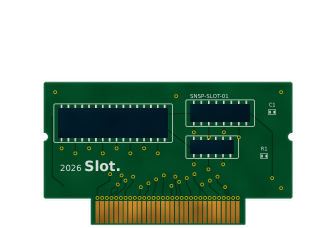
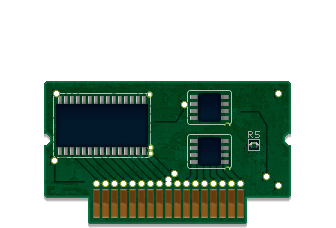
NES and SNES boards built from the GBA and Game Boy boards' own pixels
The GBA board's green, edge rim and drop shadow, its gold fingers and vias are copied over, the
chips are the Game Boy board's turned on their side, and the drill holes stay see-through. One
SNES board, the same size, now serves the NTSC and the PAL cart.

Claude-Session: https://claude.ai/code/session_01QKd2aZnZgZkwj4Ae6LDswU

Changed region(s): [[0.119, 0.3377, 0.8929, 1.0]]

diff --git a/tools/carts/tv_boards.py b/tools/carts/tv_boards.py
@@ -1,188 +1,161 @@
-"""Redraw the NES and SNES boards in the Game Boy / GBA boards' style (gb_board.png, board.png):
-mottled solder mask with a lighter rim, dark traces, gold-ringed vias, a via above every gold
-finger, black-blue chips on silver gull-wing pins inside a white silkscreen box, a few small parts
-and the big '2026 Slot.' mark. The outlines are the boards' current ones (the assets' alpha), so
-they still fit their shells. Usage: tv_boards.py FONT_REGULAR FONT_BOLD (run from the repo root)."""
-import sys, numpy as np
-from PIL import Image, ImageDraw, ImageFont
+"""Build the NES and SNES boards out of the GBA and Game Boy boards (board.png, gb_board.png), so
+they are the same make: the GBA board's mottled green is copied straight over (its own features
+patched out), its edge (a lighter cut rim) and drop shadow are copied by profile, its gold fingers
+and the via over each one are copied cell by cell, and the chips are the Game Boy board's own,
+turned on their side. Only the traces are drawn. One SNES board serves the NTSC and the PAL cart
+(as the real carts share one), at the same size in both.
+Usage: tv_boards.py (from the repo root). The NES outline is read from tools/carts/nes_board_mask.png."""
+import numpy as np
+from PIL import Image, ImageDraw
 from scipy import ndimage as nd
 
-REG, BOLD = sys.argv[1], sys.argv[2]
-S = 4  # drawn at 4x, boxed down
-GREEN = np.array([1, 72, 36.])
-POUR = np.array([0, 52, 24.])
-TRACE = np.array([0, 42, 18.])
-RIM = np.array([20, 104, 62.])
-RING = np.array([176, 166, 18.])
-HOLE = np.array([6, 30, 16.])
-NAVY = np.array([1, 24, 36.])
-PIN, PIN_DARK = np.array([214, 214, 214.]), np.array([150, 150, 152.])
-SILK = np.array([214, 220, 214.])
-GOLD, GOLD_DARK = np.array([196, 128, 40.]), np.array([150, 92, 30.])
+gba = np.asarray(Image.open('assets/board.png').convert('RGBA')).astype(np.float32)
+gb = np.asarray(Image.open('assets/gb_board.png').convert('RGBA')).astype(np.float32)
+R, G, B = gba[..., 0], gba[..., 1], gba[..., 2]
+opaque = gba[..., 3] > 250
+inner = nd.distance_transform_edt(opaque)
+TRACE = np.array([0, 30, 18.])
 
-def board(name, layout):
-    src = Image.open(f'assets/{name}.png').convert('RGBA')
-    W, H = src.size
-    w, h = W * S, H * S
-    alpha = np.asarray(src)[..., 3]
-    m = np.asarray(Image.fromarray(alpha).resize((w, h), Image.Resampling.BILINEAR)) > 127
-    rng = np.random.default_rng(len(name))
-    yy, xx = np.mgrid[0:h, 0:w]
+# ---- the GBA board's green, with its parts patched out of it ----
+clean = opaque & (inner > 6) & (G > R + 30) & (G > B + 15) & (G > 52) & (G < 125)
+clean = nd.binary_erosion(clean, iterations=1)
+tex, ok = gba[..., :3].copy(), clean.copy()
+rng = np.random.default_rng(3)
+for _ in range(400):
+    if ok[16:150, 24:334].all():
+        break
+    dy, dx = rng.integers(-60, 61, 2)
+    src, sok = np.roll(tex, (dy, dx), (0, 1)), np.roll(ok, (dy, dx), (0, 1))
+    fill = ~ok & sok
+    tex[fill] = src[fill]
+    ok |= fill
+TILE = tex[16:150, 24:334]
 
-    def layer():
-        im = Image.new('L', (w, h), 0)
-        return im, ImageDraw.Draw(im)
-    def on(im): return np.asarray(im) > 127
+def green(h, w):
+    t = np.concatenate([TILE, TILE[:, ::-1]], 1)
+    t = np.concatenate([t, t[::-1]], 0)
+    reps = (h // t.shape[0] + 1, w // t.shape[1] + 1)
+    return np.tile(t, (*reps, 1))[:h, :w].copy()
 
-    # mottled mask: soft blotches and a few dark specks, as the GBA board has
-    blot = nd.gaussian_filter(rng.normal(0, 1, (h, w)), 6 * S)
-    blot /= blot.std()
-    rgb = GREEN[None, None, :] * (1 + 0.035 * blot[..., None])
-    speck = nd.gaussian_filter(rng.normal(0, 1, (h, w)), 0.6 * S)
-    rgb *= 1 - 0.18 * np.clip(speck / speck.std() - 2.2, 0, 1)[..., None]
+# the cut edge, by distance from it (measured down the GBA board's left side)
+RIM = {1: np.array([17, 108, 66.]), 2: np.array([9, 96, 56.]), 3: np.array([1, 77, 39.])}
+FLAT = np.array([1, 68, 32.])
+# the drop shadow below (rows 1..4 under the edge) and the faint one on the right
+SHADOW_DOWN, SHADOW_RIGHT = (84, 84, 63, 21), 20
 
-    L = layout
-    # copper pours under the mask
-    pim, pd = layer()
-    for box in L.get('pours', []):
-        pd.rounded_rectangle([c * S for c in box], radius=3 * S, fill=255)
-    rgb[on(pim)] = rgb[on(pim)] * 0.25 + POUR * 0.75
+def feature(px):
+    """The non-green pixels of a copied part: gold, silver, silkscreen, chip, drill."""
+    r, g, b = px[..., 0], px[..., 1], px[..., 2]
+    return (px[..., 3] > 128) & ~((g > r + 25) & (g > b + 8) & (r < 40))
 
-    # traces: from each finger's via straight up, then a 45 degree jog towards the chips
-    tim, td = layer()
-    fx0, fx1, fy0, fy1 = L['fingers']
-    n = L['count']
-    pitch = (fx1 - fx0) / n
-    vias = []
+# ---- parts to copy ----
+st = 55  # a middle finger of the GBA board: gold from x 55, 7 wide, pitch 9
+FINGER = gba[156:201, st - 1:st + 8]          # the via over it, the finger, the green under it
+FINGER_BOTTOM = 200 - 156                       # the cell's last board row
+VIA = gba[146:155, 300:309]                     # a lone via, drill and ring
+CHIP_BIG = np.rot90(gb[168:270, 66:134])        # the Game Boy board's 32-pin chip, on its side
+CHIP_SMALL = np.rot90(gb[45:92, 113:150])       # its 8-pin chip
+PART = gba[63:93, 186:206]                      # R5: a two-pad part and its name
+
+def paste(rgb, part, x, y, holes=None):
+    """Copy a part's own pixels over the green; its drill holes (see-through on the source
+    boards) are marked in `holes` so they stay see-through here too."""
+    h, w = part.shape[:2]
+    f = feature(part)
+    region = rgb[y:y + h, x:x + w]
+    region[f] = part[..., :3][f]
+    if holes is not None:
+        solid = part[..., 3] > 128
+        holes[y:y + h, x:x + w] |= nd.binary_fill_holes(solid) & ~solid
+
+def build(mask, fingers, chips, parts, vias, traces):
+    """mask: the board's outline (bool, full canvas). fingers: (x0, count, bottom row)."""
+    h, w = mask.shape
+    rgb = green(h, w)
+    d = nd.distance_transform_edt(np.pad(mask, 1))[1:-1, 1:-1]
+    for k, c in RIM.items():
+        band = mask & (np.abs(d - k) < 0.5)
+        rgb[band] = c + (rgb[band] - FLAT) * 0.5
+    # traces, drawn at 4x for soft edges, in the GBA board's trace green
+    S = 4
+    im = Image.new('L', (w * S, h * S), 0); dr = ImageDraw.Draw(im)
+    for path in traces:
+        dr.line([(x * S + S / 2, y * S + S / 2) for x, y in path], fill=255, width=int(1.6 * S), joint='curve')
+    cov = np.asarray(im.resize((w, h), Image.Resampling.BOX)).astype(np.float32)[..., None] / 255 * mask[..., None]
+    rgb = rgb * (1 - cov) + TRACE * cov
+    holes = np.zeros_like(mask)
+    for part, x, y in chips + parts:
+        paste(rgb, part, x, y, holes)
+    for x, y in vias:
+        paste(rgb, VIA, x - 4, y - 4, holes)
+    x0, n, bottom = fingers
     for k in range(n):
-        x = fx0 + (k + 0.5) * pitch
-        vy = fy0 - 3.2
-        vias.append((x, vy))
-        if k % 2 == 0 or k % 7 == 3:
-            top = L['fan_top'] + (k * 37 % 11) * 1.3
-            jog = (x - (fx0 + fx1) / 2) * -0.18
-            td.line([(x * S, vy * S), (x * S, (top + 8) * S), ((x + jog) * S, top * S),
-                     ((x + jog) * S, (top - 6) * S)], fill=255, width=int(1.1 * S))
-            vias.append((x + jog, top - 6))
-    for path in L.get('traces', []):
-        td.line([(px * S, py * S) for px, py in path], fill=255, width=int(1.1 * S), joint='curve')
-    rgb[on(tim)] = TRACE
+        paste(rgb, FINGER, x0 + k * 9, bottom - FINGER_BOTTOM, holes)
+    alpha = mask * 255.0
+    def shift(m, dy, dx):
+        out = np.zeros_like(m)
+        out[dy:, dx:] = m[:m.shape[0] - dy, :m.shape[1] - dx]
+        return out
+    for k, a in enumerate(SHADOW_DOWN, 1):
+        sh = shift(mask, k, 0) & ~mask
+        alpha = np.where(sh & (alpha < a), a, alpha)
+    sh = shift(mask, 0, 1) & ~mask
+    alpha = np.where(sh & (alpha < SHADOW_RIGHT), SHADOW_RIGHT, alpha)
+    alpha[holes & mask] = 0
+    rgb = np.where(mask[..., None], rgb, 0)
+    out = np.dstack([np.clip(rgb, 0, 255), alpha]).round().astype(np.uint8)
+    return out
 
-    # gold fingers, lighter at the top where the plating is fresh
-    gim, gd = layer()
+def rr(h, w, box, r):
+    m = Image.new('L', (w, h), 0)
+    ImageDraw.Draw(m).rounded_rectangle(box, radius=r, fill=255)
+    return np.asarray(m) > 127
+
+# ---- SNES: one board, 247 wide, for both carts ----
+BW, BH = 247, 147  # the last 4 rows hold the drop shadow
+FOOT = BH - 5       # the board's last row
+def snes_board():
+    m = rr(BH, BW, (0, 0, BW - 1, 116), 3)
+    m |= rr(BH, BW, (44, 100, 202, FOOT), 2)
+    for cx in (0, BW - 1):  # the half-round notches the shell's posts sit in
+        m &= ~rr(BH, BW, (cx - 5, 53, cx + 5, 63), 5)
+    x0, n = 48, 17
+    traces = []
     for k in range(n):
-        x = fx0 + k * pitch
-        gd.rectangle([(x + 0.12 * pitch) * S, fy0 * S, (x + 0.88 * pitch) * S, fy1 * S], fill=255)
-    g = on(gim)
-    t = np.clip((yy - fy0 * S) / max((fy1 - fy0) * S, 1), 0, 1)
-    gold = GOLD[None, None, :] * (1 - 0.25 * t[..., None]) * (1 + 0.06 * blot[..., None])
-    rgb[g] = gold[g]
+        x = x0 + k * 9 + 4
+        # into the big chip's pins on the left, the small chips' on the right, at 45 degrees
+        tx = 14 + k * 9.2 if k < 10 else 146 + (k - 10) * 6.5
+        up = abs(tx - x)
+        traces.append([(x, FOOT - 46), (x, 98), (tx, 98 - up), (tx, 70)])
+    traces += [[(110, 40), (132, 40), (140, 26)], [(196, 30), (214, 30), (222, 44), (222, 92)],
+               [(10, 82), (10, 100), (40, 100)]]
+    vias = [(140, 23), (222, 95), (10, 79), (234, 12), (12, 12), (234, 104), (130, 92), (124, 98)]
+    chips = [(CHIP_BIG, 8, 10), (CHIP_SMALL, 142, 8), (CHIP_SMALL, 142, 52)]
+    parts = [(PART, 200, 44)]
+    return build(m, (x0, n, FOOT), chips, parts, vias, traces)
 
-    # chips: their pins' traces first, so the pins sit on top
-    t2im, td2 = layer()
-    pin_vias = []
-    for (x0, y0, x1, y1, pins, side) in L['chips']:
-        if side == 'tb':
-            for k in range(0, pins, 2):
-                u = x0 + (k + 0.5) / pins * (x1 - x0)
-                run = 6 + (k * 5 % 4) * 2.5
-                td2.line([(u * S, (y1 + 3) * S), (u * S, (y1 + 3 + run) * S)], fill=255, width=int(1.1 * S))
-                pin_vias.append((u, y1 + 3 + run + 1.2))
-    rgb[on(t2im)] = TRACE
-    # chips: body, gull-wing pins top and bottom (or left and right), silkscreen box, pin-1 dot
-    for (x0, y0, x1, y1, pins, side) in L['chips']:
-        sim, sd = layer()
-        pad = 4.4
-        sd.rounded_rectangle([(x0 - pad) * S, (y0 - pad) * S, (x1 + pad) * S, (y1 + pad) * S],
-                             radius=1.5 * S, outline=255, width=int(0.8 * S))
-        rgb[on(sim)] = SILK
-        for k in range(pins):
-            if side == 'tb':
-                u = x0 + (k + 0.5) / pins * (x1 - x0)
-                for a, b in ((y0 - 3.4, y0), (y1, y1 + 3.4)):
-                    rgb[(np.abs(xx - u * S) < 0.9 * S) & (yy >= a * S) & (yy < b * S)] = PIN
-                    rgb[(np.abs(xx - u * S - 0.7 * S) < 0.25 * S) & (yy >= a * S) & (yy < b * S)] = PIN_DARK
-            else:
-                v = y0 + (k + 0.5) / pins * (y1 - y0)
-                for a, b in ((x0 - 3.4, x0), (x1, x1 + 3.4)):
-                    rgb[(np.abs(yy - v * S) < 0.9 * S) & (xx >= a * S) & (xx < b * S)] = PIN
-                    rgb[(np.abs(yy - v * S - 0.7 * S) < 0.25 * S) & (xx >= a * S) & (xx < b * S)] = PIN_DARK
-        body = (xx >= x0 * S) & (xx < x1 * S) & (yy >= y0 * S) & (yy < y1 * S)
-        sheen = 1 + 0.35 * np.clip(1 - (yy - y0 * S) / ((y1 - y0) * S), 0, 1) * np.clip(1 - (xx - x0 * S) / ((x1 - x0) * S), 0, 1)
-        rgb[body] = (NAVY[None, :] * sheen[body][:, None]) * (1 + 0.05 * blot[body][:, None])
-        dot = (xx - (x0 + 2.2) * S) ** 2 + (yy - (y1 - 2.2) * S) ** 2 < (0.9 * S) ** 2
-        rgb[dot] = NAVY * 0.55
+board = snes_board()
+for name, (W, H) in (('snes_board', (360, 231)), ('snes_pal_board', (336, 228))):
+    c = np.zeros((H, W, 4), np.uint8)
+    x, y = (W - BW) // 2, H - BH
+    c[y:y + BH, x:x + BW] = board
+    Image.fromarray(c, 'RGBA').save(f'assets/{name}.png', optimize=True)
 
-    # small parts: a two-pad part with a silver end each side and its name above
-    fim, fd = layer()
-    f_small = ImageFont.truetype(REG, int(5.2 * S))
-    for (x, y, label) in L.get('parts', []):
-        fd.rectangle([(x - 3.6) * S, (y - 2.6) * S, (x + 3.6) * S, (y + 2.6) * S], outline=255, width=int(0.6 * S))
-        fd.text((x * S, (y - 4.2) * S), label, font=f_small, fill=255, anchor='md')
-        rgb[(np.abs(xx - x * S) < 2.6 * S) & (np.abs(yy - y * S) < 1.3 * S)] = [10, 70, 40]
-        for e in (-1, 1):
-            rgb[(np.abs(xx - (x + e * 2.2) * S) < 0.7 * S) & (np.abs(yy - y * S) < 1.3 * S)] = PIN
-    rgb[on(fim)] = SILK
+# ---- NES: its own outline (a wide body, a narrower piece on top), fingers across the bottom ----
+def nes_board():
+    m = np.asarray(Image.open('tools/carts/nes_board_mask.png').convert('L')) > 127
+    h, w = m.shape
+    vias, traces = [], []
+    x0, n = 22, 29
+    for k in range(n):
+        x = x0 + k * 9 + 3
+        if k % 3 == 0:
+            traces.append([(x, 300), (x, 294)])
+    traces += [[(180, 199), (180, 214), (190, 222)], [(258, 200), (270, 212), (270, 280)], [(26, 223), (24, 290)]]
+    vias += [(270, 283), (180, 196), (26, 220), (278, 220)]
+    chips = [(CHIP_BIG, 26, 222), (CHIP_BIG, 134, 222), (CHIP_SMALL, 204, 184)]
+    parts = [(PART, 248, 236)]
+    return build(m, (x0, n, 334), chips, parts, vias, traces)
 
-    # vias: a dark drill in a gold ring
-    for (x, y) in vias + pin_vias + [tuple(v) for v in L.get('vias', [])]:
-        r = np.hypot(xx - x * S, yy - y * S) / S
-        rgb[(r < 1.9) & m] = RING
-        rgb[(r < 1.0) & m] = HOLE
-
-    # silkscreen: the board's code, and '2026 Slot.' as on the GBA board
-    xim, xd = layer()
-    cx, cy, size = L['mark']
-    f_reg = ImageFont.truetype(REG, int(size * 0.62 * S))
-    f_bold = ImageFont.truetype(BOLD, int(size * S))
-    xd.text((cx * S, cy * S), '2026 ', font=f_reg, fill=255, anchor='ls')
-    adv = xd.textlength('2026 ', font=f_reg)
-    xd.text((cx * S + adv, cy * S), 'Slot.', font=f_bold, fill=255, anchor='ls')
-    code_x, code_y, code = L['code']
-    xd.text((code_x * S, code_y * S), code, font=ImageFont.truetype(REG, int(5.6 * S)), fill=255, anchor='ls')
-    rgb[on(xim)] = SILK
-
-    # the mask's lighter rim along the board edge
-    d = nd.distance_transform_edt(np.pad(m, 1))[1:-1, 1:-1] / S
-    rim = (d < 1.6) & ~g
-    rgb[rim] = rgb[rim] * 0.4 + RIM * 0.6
-
-    rgb = np.clip(rgb, 0, 255)
-    out = np.zeros((h, w, 4), np.float32)
-    out[..., :3] = rgb * m[..., None]
-    out[..., 3] = m * 255.
-    small = Image.fromarray(out.astype(np.uint8), 'RGBA').convert('RGBa').resize((W, H), Image.Resampling.BOX).convert('RGBA')
-    a = np.asarray(small).copy()
-    a[..., 3] = alpha  # keep the outline exactly as it was
-    Image.fromarray(a, 'RGBA').save(f'assets/{name}.png', optimize=True)
-
-# NES: wide body 20..284 x 214..302, a narrower top piece 158..275 from y 182; 36 fingers
-board('nes_board', dict(
-    fingers=(24, 280, 307, 335), count=36, fan_top=288,
-    chips=[(32, 234, 118, 258, 12, 'tb'), (132, 234, 218, 258, 12, 'tb'), (236, 236, 270, 254, 6, 'tb')],
-    parts=[(262, 198, 'C1'), (228, 274, 'C2')],
-    traces=[[(118, 244), (132, 244)], [(118, 249), (132, 249)], [(218, 245), (236, 245)],
-            [(253, 236), (253, 222), (240, 212), (240, 200)], [(26, 230), (26, 290)]],
-    vias=[(240, 198), (276, 222), (276, 290), (26, 226)],
-    mark=(166, 206, 14), code=(32, 226, 'NES-SLOT-01')))
-
-# SNES (NTSC): body 49..312 x 65..197, tab 106..260 down to 227; 31 fingers
-board('snes_board', dict(
-    fingers=(110, 256, 203, 226), count=31, fan_top=176,
-    chips=[(64, 92, 180, 124, 16, 'tb'), (206, 90, 268, 108, 8, 'tb'), (206, 136, 252, 152, 6, 'tb')],
-    parts=[(290, 98, 'C1'), (278, 150, 'R1')],
-    traces=[[(180, 100), (206, 99)], [(180, 116), (206, 144)], [(268, 99), (290, 120), (290, 170)],
-            [(56, 100), (56, 170), (70, 182)]],
-    vias=[(60, 76), (300, 76), (300, 186), (290, 172), (190, 80)],
-    mark=(64, 168, 15), code=(206, 82, 'SHVC-SLOT-01')))
-
-# SNES (PAL / Super Famicom): body 45..291 x 82..198, tab 91..244 down to 224; 31 fingers
-board('snes_pal_board', dict(
-    fingers=(95, 240, 201, 223), count=31, fan_top=180,
-    chips=[(58, 108, 168, 138, 16, 'tb'), (190, 104, 250, 122, 8, 'tb'), (190, 140, 234, 154, 6, 'tb')],
-    parts=[(272, 112, 'C1'), (264, 156, 'R1')],
-    traces=[[(168, 114), (190, 113)], [(168, 130), (190, 147)], [(250, 113), (272, 132), (272, 176)],
-            [(52, 116), (52, 176), (64, 186)]],
-    vias=[(55, 92), (281, 92), (281, 188), (272, 178), (176, 96)],
-    mark=(60, 171, 14), code=(190, 98, 'SNSP-SLOT-01')))
+Image.fromarray(nes_board(), 'RGBA').save('assets/nes_board.png', optimize=True)
 print('ok')
